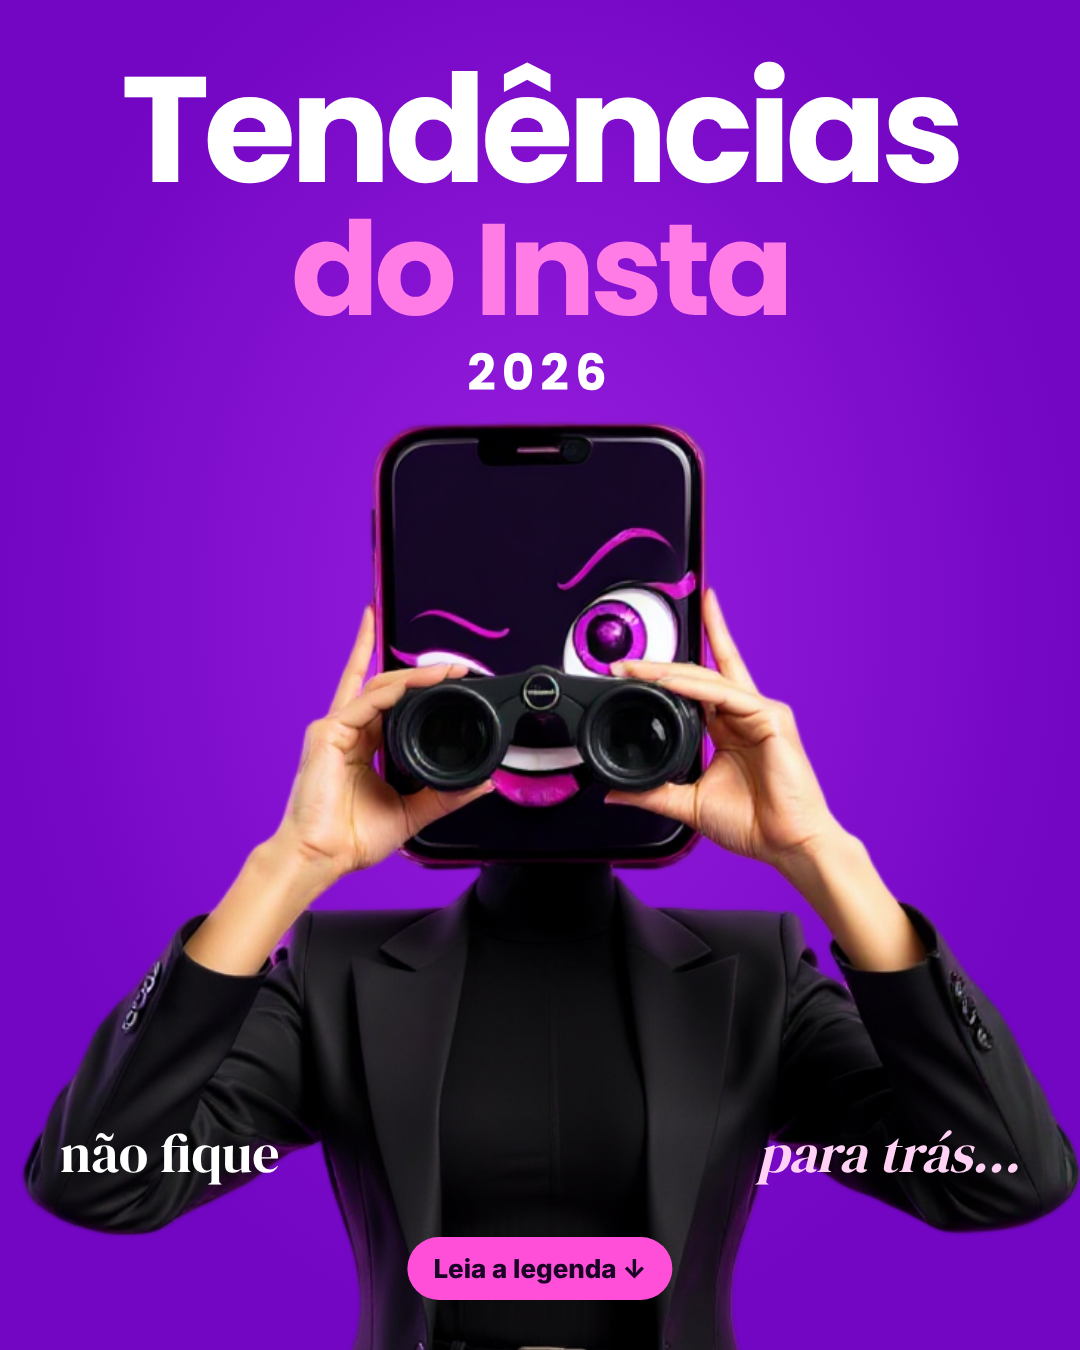
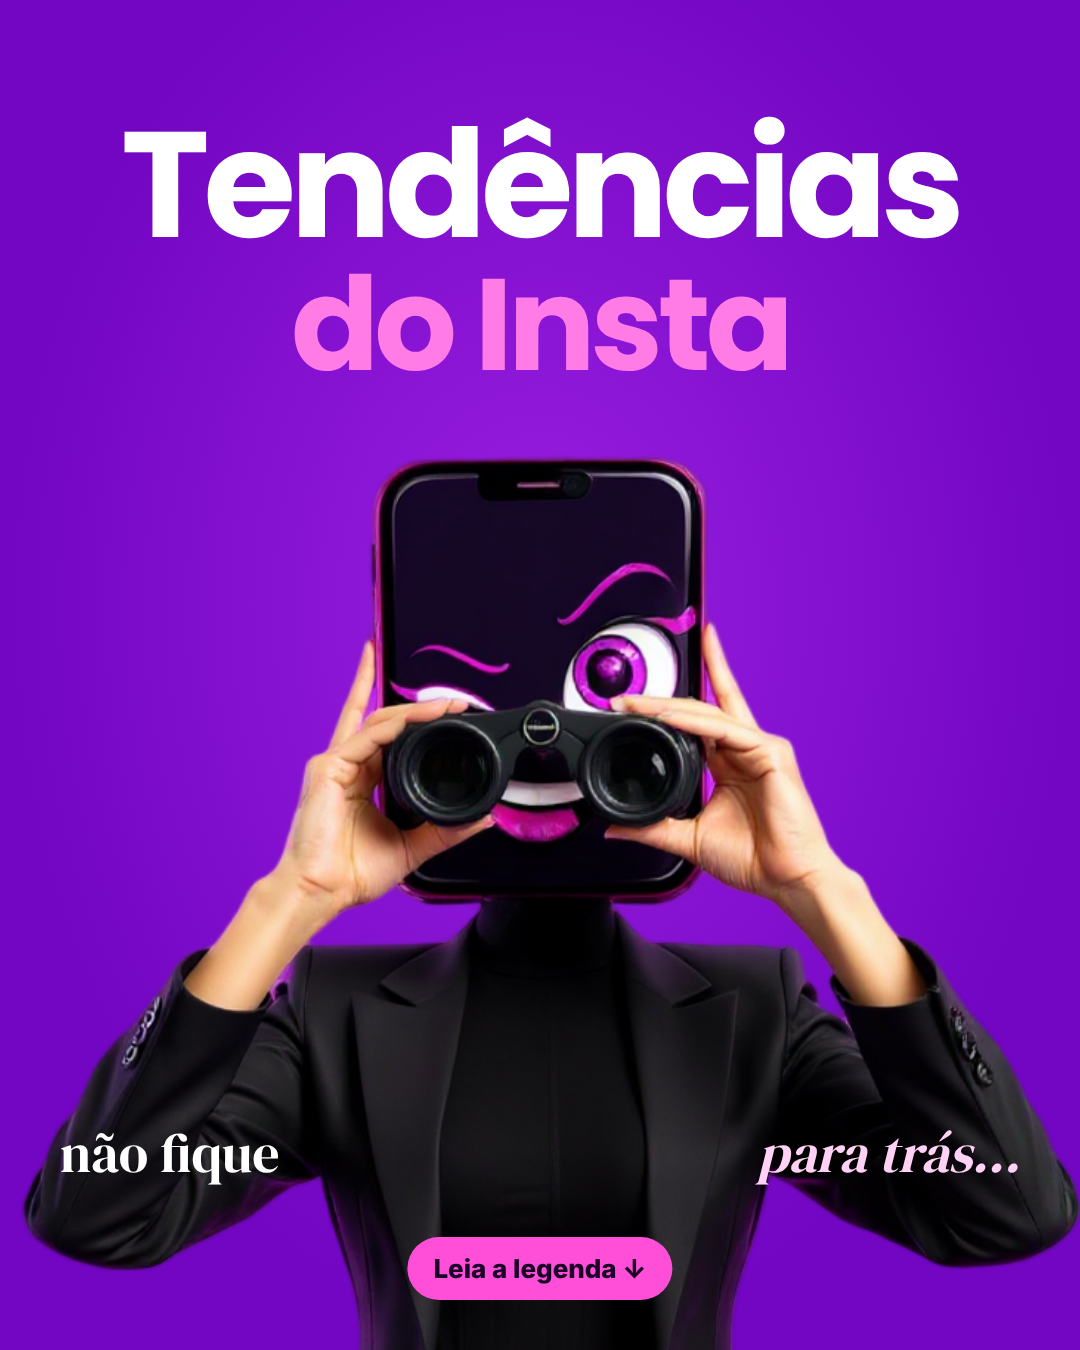
Estáticos 16 e 17: ajustes do pente fino
Claude-Session: https://claude.ai/code/session_017mkQW4f9RfZB1iSbiGkvms

Changed region(s): [[0.0, 0.0311, 1.0, 1.0], [0.4583, 0.9956, 0.55, 1.0], [0.3667, 0.9644, 0.3972, 1.0]]

diff --git a/banco/tpl-estatico/layout-16.html b/banco/tpl-estatico/layout-16.html
@@ -13,12 +13,12 @@ body{margin:0}#s{width:1080px;height:1350px;position:relative;overflow:hidden}
 
 #s{background:radial-gradient(ellipse at 50% 45%,#9a1fe0,#7206c2 70%)}
 .dot{background:radial-gradient(circle,currentColor 42%,transparent 46%) 0 0/9px 9px;-webkit-background-clip:text;background-clip:text;-webkit-text-fill-color:transparent;font-family:N;letter-spacing:-2px}
-.t1{position:absolute;left:0;right:0;text-align:center;top:55px;font:700 150px/1 M9;letter-spacing:-6px;color:#ffffff}
-.t2{position:absolute;left:0;right:0;text-align:center;top:205px;font:700 130px/1 M9;letter-spacing:-5px;color:#ff7be6}
+.t1{position:absolute;left:0;right:0;text-align:center;top:110px;font:700 150px/1 M9;letter-spacing:-6px;color:#ffffff}
+.t2{position:absolute;left:0;right:0;text-align:center;top:260px;font:700 130px/1 M9;letter-spacing:-5px;color:#ff7be6}
 .t3{position:absolute;left:0;right:0;text-align:center;top:335px;font:700 50px M9;letter-spacing:6px;color:#fff}
 .l{position:absolute;left:60px;bottom:160px;font:400 54px D;color:#fff}
 .r{position:absolute;right:60px;bottom:160px;font:400 54px D;font-style:italic;color:#ffd1f5}
 .cta{left:50%;transform:translateX(-50%);bottom:50px;font-size:26px;background:#ff4fd8;color:#1a0326}
-</style></head><body><div id=s><img src="c16b-cut.png" style="position:absolute;left:-110px;top:150px;width:1300px">
-<div class=t1>Tendências</div><div class=t2>do Insta</div><div class=t3>2026</div>
+</style></head><body><div id=s><img src="c16b-cut.png" style="position:absolute;left:-110px;top:185px;width:1300px">
+<div class=t1>Tendências</div><div class=t2>do Insta</div>
 <div class=l>não fique</div><div class=r>para trás...</div><div class=cta>Leia a legenda ↓</div></div></body></html>

diff --git a/banco/tpl-estatico/layout-17.html b/banco/tpl-estatico/layout-17.html
@@ -13,9 +13,9 @@ body{margin:0}#s{width:1080px;height:1350px;position:relative;overflow:hidden}
 
 #s{background:#e4e2de}
 .t{position:absolute;line-height:.95}
-.a{left:70px;top:105px;font:700 50px MS;color:#626161;letter-spacing:1px}.b{left:64px;top:160px;font:900 104px MB;color:#111;letter-spacing:-4px}
-.c{right:60px;top:1000px;font:700 46px MS;color:#626161;text-align:right}.d{right:56px;top:1050px;font:900 124px MB;color:#111;letter-spacing:-4px}
+.a{left:70px;top:300px;font:700 50px MS;color:#626161;letter-spacing:1px}.b{left:64px;top:355px;font:900 104px MB;color:#111;letter-spacing:-4px}
+.c{right:50px;top:905px;font:700 46px MS;color:#626161;text-align:right}.d{right:46px;top:955px;font:900 124px MB;color:#111;letter-spacing:-4px}
 .cta{left:50%;transform:translateX(-50%);bottom:60px;background:#2b2b2b;color:#fff;font-size:26px}
-</style></head><body><div id=s><img src="c17-cut.png" style="position:absolute;left:43%;top:49%;height:960px;transform:translate(-50%,-50%)"><div id=tx>
+</style></head><body><div id=s><img src="c17-cut.png" style="position:absolute;left:40%;top:48%;height:960px;transform:translate(-50%,-50%)"><div id=tx>
 <div class="t a">FRASES QUE TODO</div><div class="t b">EMPREENDEDOR</div><div class="t c">JÁ ESTÁ CANSADO DE</div><div class="t d">ESCUTAR</div></div>
 <div class=cta>Leia a legenda ↓</div></div></body></html>

diff --git a/conhecimento/agentes/designer/22-feed-estatico-quebra-de-padrao.md b/conhecimento/agentes/designer/22-feed-estatico-quebra-de-padrao.md
@@ -123,3 +123,4 @@ Arquivos em `banco/tpl-estatico/` (`ref-N`, `layout-N.html`, `teste-N.png`).
 - Pente fino (19/11/2026) · 16: título em fonte chamativa (Montserrat 900, branco + rosa), nada de letra pontilhada; fundo liso (degradê suave da cor da marca, sem raios de luz): mascote recortado sobre o fundo.
 - 16: título na FONTE DA MARCA (Seguidores em Alta = Poppins), primeira letra maiúscula, centralizado.
 - 16 APROVADA (Poppins). 17 (pente fino): texto na fonte da marca (Marketing Raiz = Montserrat), palavras grandes em preto e linhas pequenas em cinza da marca, blocos afastados (um no alto, outro embaixo) para usar o espaço vazio e nunca ficar atrás do mascote.
+- 16 sem o "2026", título mais baixo. 17: os blocos de texto ficam PERTO do mascote (encostando nele), não longe nas bordas; palavras grandes em preto.
